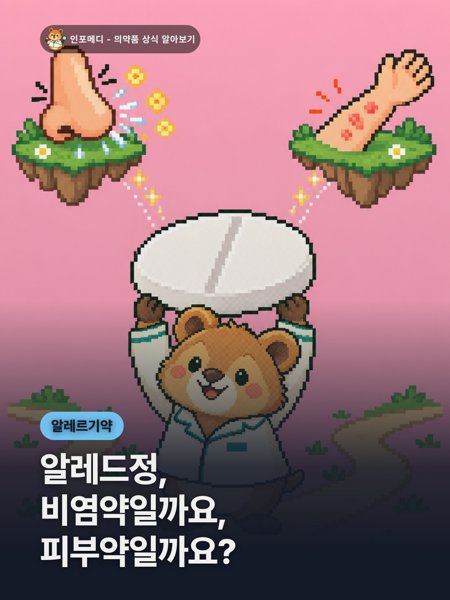
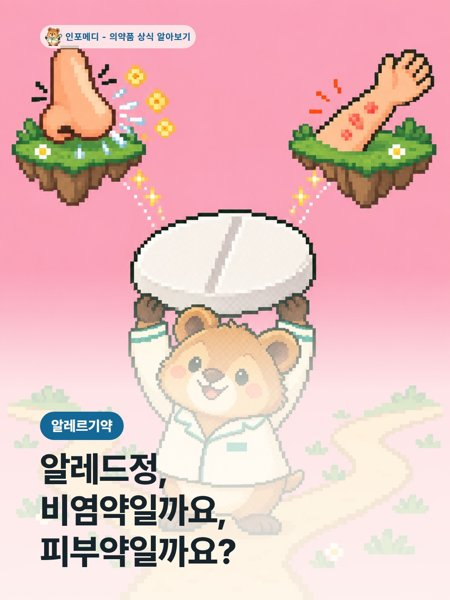
links

diff --git a/index.html b/index.html
@@ -34,7 +34,7 @@
 <section class="section">
 <h2>의약품 정보 <small id="count"></small></h2>
 <div class="grid" id="list">
-<a class="item" href="https://blog.naver.com/info_medi_/224429337046"><img src="c/알레드정-white.jpg" alt="" loading="lazy">
+<a class="item" href="https://blog.naver.com/info_medi_/224429337046"><img src="c/알레드정.jpg" alt="" loading="lazy">
 <span><b>알레드정, 비염약일까요, 피부약일까요?</b><small><time datetime="2026-10-14 13:45"></time></small></span></a>
 <a class="item" href="https://blog.naver.com/info_medi_/224423451564"><img src="c/히알루론산.jpg" alt="" loading="lazy">
 <span><b>히알루론산, 화장품 속 성분과 같은 성분일까요?</b><small><time datetime="2026-10-14 10:22"></time></small></span></a>
